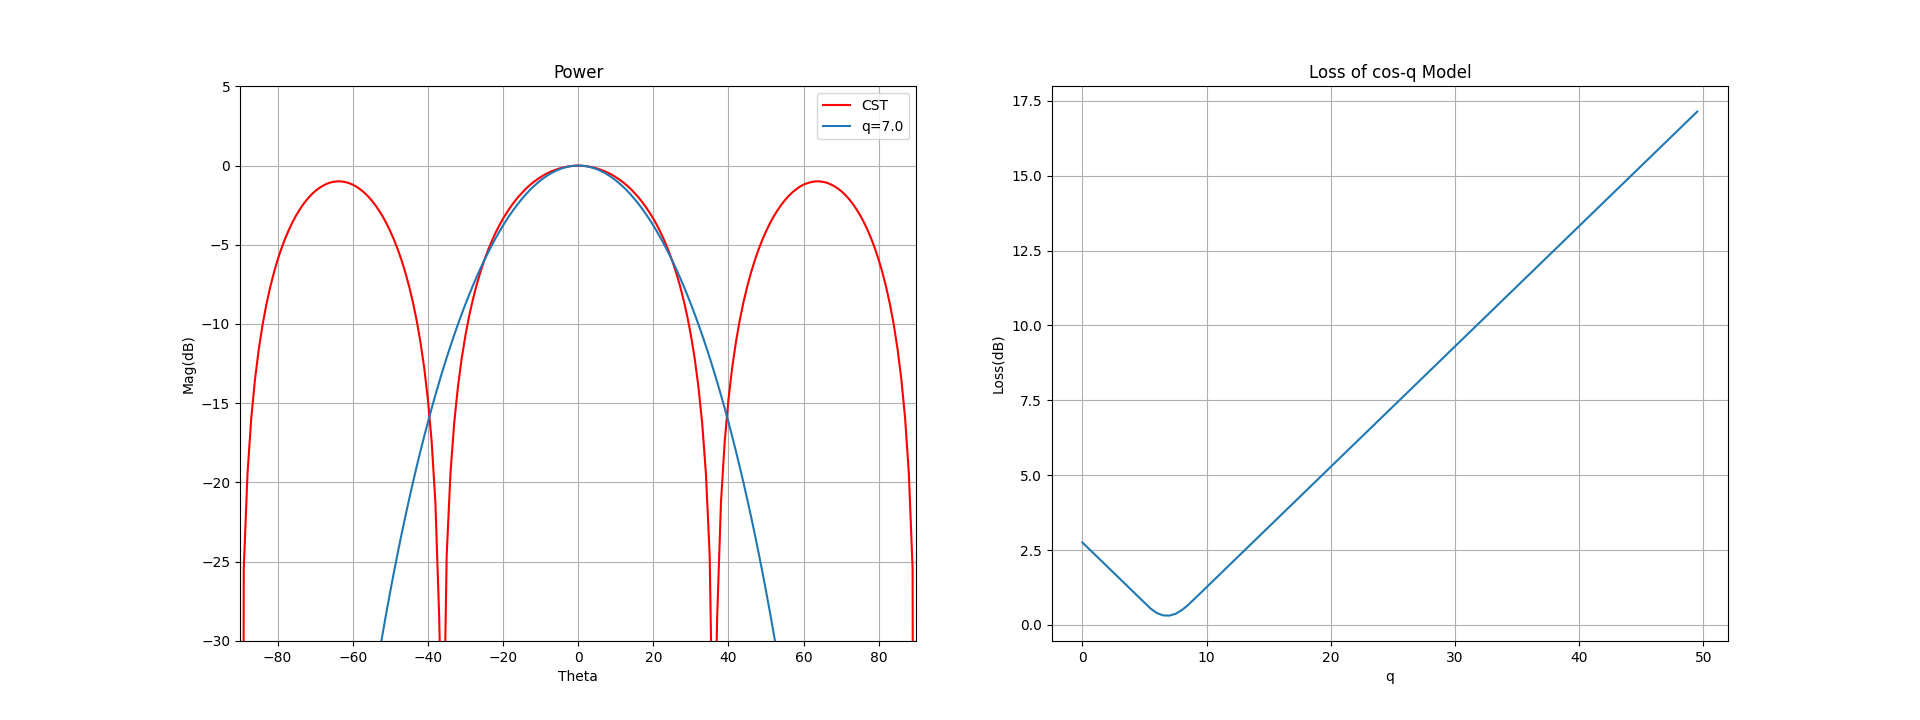
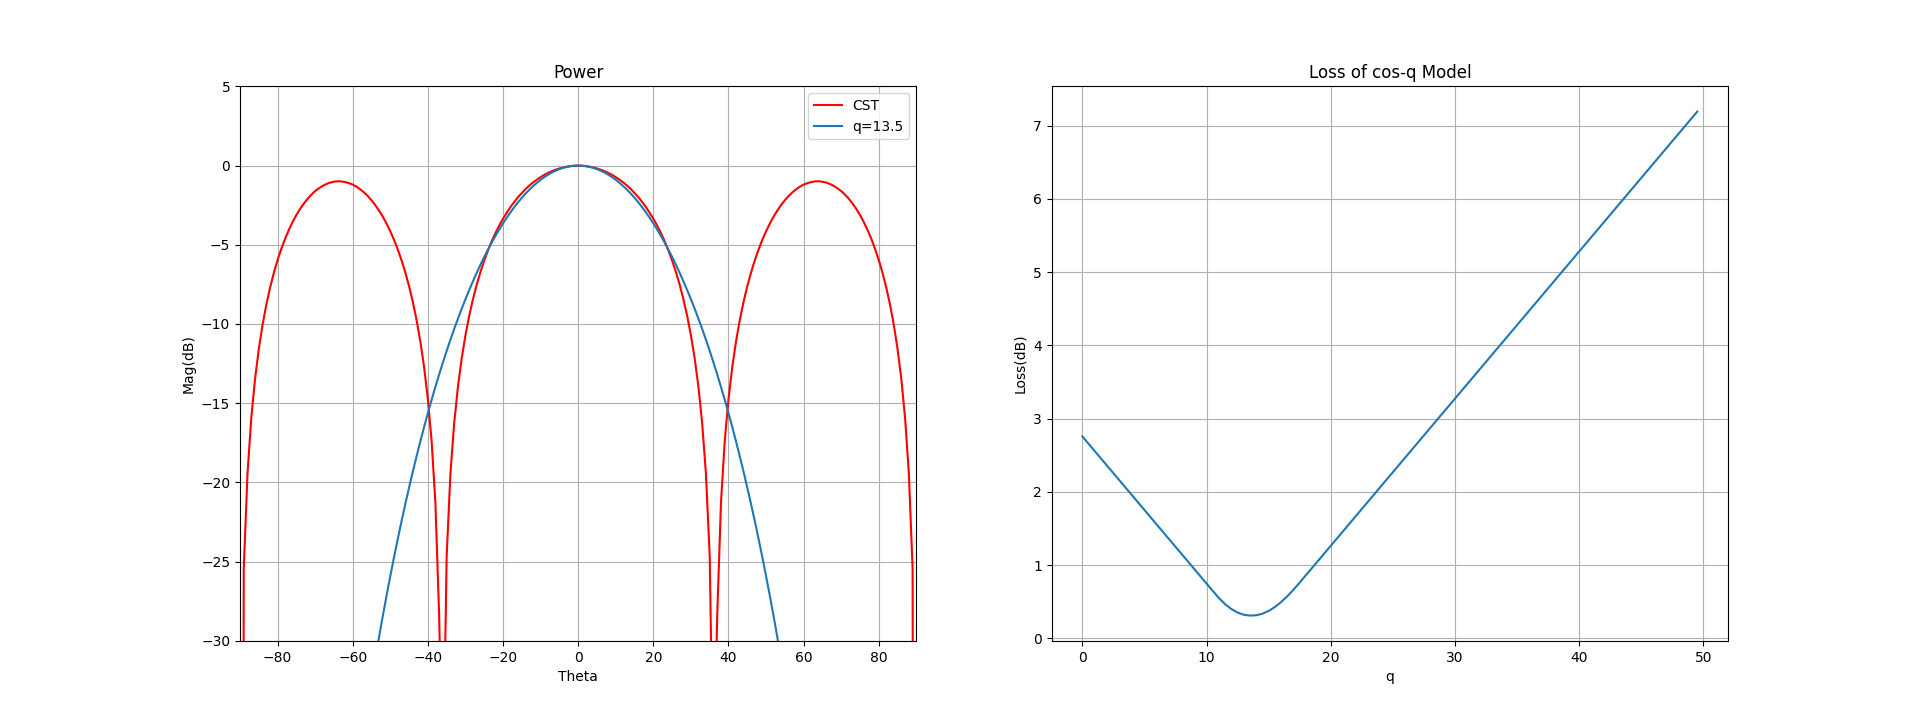
Changes

diff --git a/src/part5_system_analysis/step1_simulation_post_process.py b/src/part5_system_analysis/step1_simulation_post_process.py
@@ -22,7 +22,7 @@ def find_best_q(file_path, img_path, q_min, q_max, three_db_range):
     with np.errstate(divide='ignore'):
         for q in q_range:
             cos_x = np.cos(ang * np.pi / 180)
-            cos_value = 10 * np.log10(np.power(cos_x, q * 2) + 1e-15)
+            cos_value = 10 * np.log10(np.power(cos_x, q) + 1e-15)
             index = np.where(q_range == q)[0].item()
             cos_model[:, index] = cos_value.flat
             p_start, p_end = center - three_db_range, center + three_db_range
@@ -56,7 +56,7 @@ def find_best_q(file_path, img_path, q_min, q_max, three_db_range):
 if __name__ == "__main__":
     q = find_best_q(file_path=r"../../data/dataset/reflectarray_pattern_10GHz.txt",
                     img_path=r"../../img/system/q.png",
-                    q_min=100, q_max=250, three_db_range=3)
+                    q_min=1, q_max=500, three_db_range=3)
 
     qf = find_best_q(file_path=r"../../data/dataset/feed_horn_pattern.txt",
                     img_path=r"../../img/feed/q.png",
@@ -67,8 +67,12 @@ if __name__ == "__main__":
                     q_min=0, q_max=50, three_db_range=30)
 
     '''
-    Best q 
+    Best q ** 2
         element: 7
         feed: 8.5
         system: 185
+    Best q
+        element: 13.5
+        feed: 17
+        system: 370
     '''
